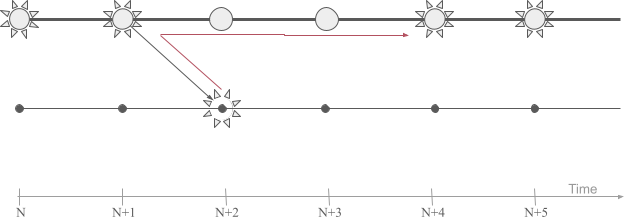
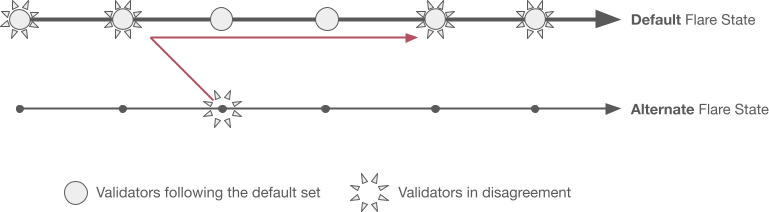
WIP

diff --git a/docs/tech/state-connector.md b/docs/tech/state-connector.md
@@ -5,7 +5,7 @@
 The **State Connector** is a smart contract running on the Flare network that allows anyone to **query information from outside the Flare network**.
 It does so in a **decentralized manner** (no single party is in control of the process) and **securely** (it takes a lot of effort to disrupt the process).
 
-This is accomplished by using a set of **independent Attestation Providers** which fetch the required information from the world and deliver it to the Flare network.
+This is accomplished by using a set of **independent attestation providers** which fetch the required information from the world and deliver it to the Flare network.
 The State Connector smart contract then checks if there is **enough consensus** among the received answers and **publishes the results** if so.
 
 <figure markdown>
@@ -34,7 +34,8 @@ Requests are **yes/no questions** regarding things that happened outside the Fla
 The answers, though, might contain any kind of additional data attached, like the content of transaction 0xABC, for example.
 
 Requests must adhere to one of the **available request types**, which have been designed to be **strictly decidable**, i.e., the answers are objective and cannot be argued.
-Otherwise, queries like "What is the weather like in Paris?" would have a hard time reaching consensus among the different Attestation Providers.
+Otherwise, queries like "What is the weather like in Paris?" would have a hard time reaching consensus among the different attestation providers.
+Section [Adding New Attestation Types](#adding-new-attestation-types) below contains more details.
 
 ??? example "Making a request (for App developers)"
 
@@ -51,24 +52,24 @@ Otherwise, queries like "What is the weather like in Paris?" would have a hard t
 
 ### 2. Request forwarding
 
-The State Connector simply **forwards the request** to all connected Attestation Providers through an [EVM](glossary.md#evm) event.
+The State Connector simply **forwards the request** to all connected attestation providers through an [EVM](glossary.md#evm) event.
 Therefore, the request is **not** stored on the blockchain and **its gas cost is very low** for the requester.
 
 ### 3. Data retrieval
 
-Attestation Providers **fetch the requested data** by means that depend on the type of attestation.
+Attestation providers **fetch the requested data** by means that depend on the type of attestation.
 E.g., retrieving data from another blockchain or public API.
 
-Keep in mind that Attestation Providers are **not controlled by Flare** in any way.
+Keep in mind that attestation providers are **not controlled by Flare** in any way.
 Anybody can listen to the request events and provide answers using any combination of hardware, software and code they see fit.
 
 ### 4. Attestation
 
-To prevent Attestation Providers from peeking at each other's answers, these are submitted in a "Commit and Reveal" fashion called [the RCR protocol](#overlapped-rcr-protocol) and detailed below.
+To prevent attestation providers from peeking at each other's answers, these are submitted in a "Commit and Reveal" fashion called [the RCR protocol](#overlapped-rcr-protocol) and detailed below.
 
-??? example "Submitting an attestation (For Attestation Provider developers)"
+??? example "Submitting an attestation (For attestation provider developers)"
 
-    Attestation Providers use the `submitAttestation` method (#3) of the [StateConnector contract](https://gitlab.com/flarenetwork/flare-smart-contracts/-/blob/master/contracts/genesis/implementation/StateConnector.sol#L92){ target=_blank }:
+    Attestation providers use the `submitAttestation` method (#3) of the [StateConnector contract](https://gitlab.com/flarenetwork/flare-smart-contracts/-/blob/master/contracts/genesis/implementation/StateConnector.sol#L92){ target=_blank }:
 
     ```solidity
     function submitAttestation(
@@ -86,8 +87,8 @@ To prevent Attestation Providers from peeking at each other's answers, these are
 
 ### 5. Consensus
 
-If **at least 50%** of the Attestation Providers submitted the same answer, it is made public.
-Otherwise, no consensus is achieved: requests remain unanswered and must be issued again.
+If **at least 50%** of the attestation providers submitted the same answer, it is made public.
+Otherwise, **no consensus is achieved**: requests remain **unanswered** and must be issued again.
 
 **The answers are stored in the State Connector smart contract for a week**, where anybody can read them.
 
@@ -116,14 +117,14 @@ Each attestation round has 3 **90-second** consecutive phases, called Request, C
   <figcaption>The Request-Commit-Reveal (RCR) protocol.</figcaption>
 </figure>
 
-- **Request phase**: Users send their requests to the State Connector contract which forwards them to every Attestation Provider.
-- **Commit phase**: Attestation Providers send **obfuscated** answers to the State Connector, so they cannot cheat by peeking at each other's submissions.
-- **Reveal phase**: Attestation Providers send the **deobfuscation key** so their previous answers are revealed.
+- **Request phase**: Users send their requests to the State Connector contract which forwards them to every attestation provider.
+- **Commit phase**: Attestation providers send **obfuscated** answers to the State Connector, so they cannot cheat by peeking at each other's submissions.
+- **Reveal phase**: Attestation providers send the **deobfuscation key** so their previous answers are revealed.
   When all data is available, answers are made public if there is enough consensus.
 
 The RCR protocol is akin to making submissions in a closed envelope which is not opened until all submissions are received.
 
-Results are available at the end of the Reveal phase, so the answer to a particular request can take anywhere from 3 to 4.5 minutes, depending on the time in which the request was made inside the Collect phase.
+Results are available at the end of the Reveal phase, so the answer to a particular request can take anywhere **from 3 to 4.5 minutes**, depending on the time in which the request was made inside the Collect phase.
 
 Furthermore, the phases of the RCR protocol are actually **overlapped**, so when requests are being **collected** for round $n$, answers are being simultaneously **committed** for the previous round $(n-1)$, and **revealed** for the round prior to that $(n-2)$.
 
@@ -136,7 +137,7 @@ This means that new requests can be made without waiting for the previous ones t
 
 ### Attestation Packing
 
-Each round, Attestation Providers build a [Merkle tree](https://en.wikipedia.org/wiki/Merkle_tree){ target=_blank } with the hashes of **all valid answers** for the round.
+Each round, attestation providers build a [Merkle tree](https://en.wikipedia.org/wiki/Merkle_tree){ target=_blank } with the hashes of **all valid answers** for the round.
 The obtained **Merkle root** is then called the **Attestation Proof**, since it is proof of the presence of each individual answer.
 Finally, the attestation proof is submitted to the State Connector for consensus evaluation.
 
@@ -146,7 +147,7 @@ Finally, the attestation proof is submitted to the State Connector for consensus
 </figure>
 
 This allows **any number of requests to be answered with a single hash**, greatly improving **scalability**.
-Furthermore, the gas cost for Attestation Providers is **constant** each round, no matter how many requests they are answering.
+Furthermore, the gas cost for attestation providers is **constant** each round, no matter how many requests they are answering.
 
 A request is only **valid** (and therefore added to the proof) if it is well-formed and it **matches reality**.
 Different providers might have different views on what reality is, and this is why the State Connector runs a consensus algorithm on the received answers.
@@ -154,7 +155,7 @@ Different providers might have different views on what reality is, and this is w
 Additionally, the allowed request types are **carefully designed to minimize the probability of contention**.
 For example, requiring some time for **transactions to settle** before inquiring about them, and forcing requests to include the hash of the block containing the transaction, which proves that the transaction has already been mined.
 
-Attestation Providers keep the actual retrieved data for a week, in case it contains additional information beyond the yes/no result.
+Attestation providers keep the actual retrieved data for a week, in case it contains additional information beyond the yes/no result.
 Users can request this data directly from the providers through the [Proof API](https://github.com/flare-foundation/attestation-client/blob/main/docs/verfication/proof-api.md){ target=_blank }.
 
 !!! note
@@ -164,9 +165,9 @@ Users can request this data directly from the providers through the [Proof API](
 
 Additional points worth noting:
 
-- If two Attestation Providers observe a different validity for _any_ of the requests in the round, they will submit a completely different Attestation Proof.
+- If two attestation providers observe a different validity for _any_ of the requests in the round, they will submit a completely different Attestation Proof.
 
-- Attestation Providers **must answer all queries** in the round **or abstain from participating in the round**, otherwise, their Merkle tree root will not match other providers and will probably be discarded by consensus.
+- Attestation providers **must answer all queries** in the round **or abstain from participating in the round**, otherwise, their Merkle tree root will not match other providers and will probably be discarded by consensus.
 
 - **Hashes are sorted** before being added to the tree, just to have a **consistent ordering** (albeit arbitrary).
 
@@ -176,7 +177,7 @@ Additional points worth noting:
 
     The procedure for apps to check whether the State Connector answered yes or no to their request is detailed in the [Attestation Client repository](https://github.com/flare-foundation/attestation-client/blob/main/docs/verfication/verification-workflow.md){ target=_blank }. What follows is an illustrative summary.
 
-    The basic idea is that you must **retrieve all data** (both requests and answers) for the round from an Attestation Provider.
+    The basic idea is that you must **retrieve all data** (both requests and answers) for the round from an attestation provider.
     You then **rebuild the Merkle tree** with this data and check that it matches the Attestation Proof provided by the State Connector.
 
     <figure markdown>
@@ -187,7 +188,7 @@ Additional points worth noting:
     1. In the attestation round after you made the request (3 attestation phases, so from 3 to 4.5 minutes) the **Attestation Proof** for the round should be available in the State Connector.
         Retrieve it using method `getAttestation` (#7) of the [StateConnector contract](https://songbird-explorer.flare.network/address/0x3A1b3220527aBA427d1e13e4b4c48c31460B4d91/read-contract){ target=_blank }.
 
-    2. **Select any Attestation Provider** you want and use the [Proof API](https://github.com/flare-foundation/attestation-client/blob/main/docs/verfication/proof-api.md){ target=_blank } path `api/proof/votes-for-round/{roundId}` to **retrieve all data for the round**.
+    2. **Select any attestation provider** you want and use the [Proof API](https://github.com/flare-foundation/attestation-client/blob/main/docs/verfication/proof-api.md){ target=_blank } path `api/proof/votes-for-round/{roundId}` to **retrieve all data for the round**.
 
     3. **Rebuild the Merkle tree** for the retrieved data.
     There are tools to help you, like the [MerkleTree.ts](https://github.com/flare-foundation/attestation-client/blob/main/lib/utils/MerkleTree.ts){ target=_blank } library.
@@ -201,3 +202,123 @@ Additional points worth noting:
     If it is not present, your request was deemed **invalid** (e.g. the queried transaction was not present).
 
         Otherwise, your request is valid and you can find any extra information about it in the data array.
+
+## Branching Protocol
+
+Besides the consensus algorithm that runs on all received attestations, the State Connector provides **one further security mechanism**:
+the ability of any individual validator node to **fork and halt execution** if attestation providers specially trusted by it disagree with the majority.
+
+### Attestation Provider Sets
+
+To achieve this, two **sets** of attestation providers are defined:
+
+- **Default attestation providers set**
+
+    Anybody can submit attestations to the State Connector, but the contract will only accept submissions from attestation providers in the **default set**.
+
+    This list was managed by Flare at launch and later became completely decentralized (see the section [Becoming an Attestation Provider](#becoming-an-attestation-provider) for more information).
+
+    **Every validator node** in the Flare network relies on this set.
+
+- **Local attestation providers set**
+
+    Additionally, each node operator can provide a list of **local** attestation providers to be accepted besides the ones from the default set.
+
+    Local providers are physically the same as default providers, and they are treated exactly the same by the State Connector.
+    Furthermore, providers can belong to both sets.
+
+<figure markdown>
+  ![Default and Local attestation providers](SC-local-AP-1.png){ loading=lazy .allow-zoom width=500px }
+  <figcaption>Default and Local attestation providers.</figcaption>
+</figure>
+
+!!! important ""
+
+    Then, for an attestation round to succeed these three conditions must be met:
+
+    - **The default set must agree on a result** (50% consensus inside the set).
+
+    - **The local set must agree on a result too** (50% consensus inside the set).
+
+    - **Both results must match**.
+
+    Otherwise, the round is **undecided** and no answer is made public.
+
+This gives local attestation providers the capacity to **stop results from being approved** if they don't agree with their own observations.
+Ideally, local providers are managed by the same entity controlling the validator node using them, so they can be **trusted implicitly**.
+
+As a consequence of different validators using different attestation providers, sometimes State Connector queries can get different results on some validators, which naturally leads to **chain forks**.
+
+Typically, blockchains allow every branch in a fork to **coexist and grow independently**, until the discrepancy is detected and resolved.
+At that point, one of the branches is removed and all the validators that were following it experience a **rollback**:
+All transactions that happened after the fork are **reverted** and the state of those validators is synchronized with the rest of the network.
+
+When dealing with forks caused by the State Connector, the Flare network implements an **extra security measure**:
+Validators whose local attestation providers disagree with the default set **halt execution after the fork**, ensuring that they will not suffer any rollback once the fork is resolved.
+
+In other words, these validators remain in a **safe state** in which the disputed query is **undecided** and therefore no action is taken based on it.
+
+!!! example
+
+    <figure markdown>
+      ![State Connector forks](SC-local-AP-2.png){ loading=lazy .allow-zoom }
+      <figcaption>State Connector forks.</figcaption>
+    </figure>
+
+    In the **example picture**, all validator nodes use the attestation providers from the default set (not shown), but validators on the rightmost column, **additionally, employ local providers**.
+    One of them returns a different answer for one of the queries, which leads to a **fork of the chain** since that validator's state does not match the rest of the network (the divergent ledger, depicted in red).
+
+The next section shows how forks are resolved and halted nodes restarted.
+
+### Branch Resolution
+
+<figure markdown>
+  ![Branching](SC-branching.png){ loading=lazy .allow-zoom }
+  <figcaption>The two states of the branching protocol.</figcaption>
+</figure>
+
+The picture above shows the state of the network after a fork.
+The **default network state** is the one followed by validators which only use the **default set of attestation providers**.
+The **alternate network state** is where validators go if they use **local attestation providers**, and they disagree with the default set.
+
+In the alternate state **no queries are answered** and **no blocks are produced**, so it is a **safe state** for validators to wait for forks to be resolved.
+
+This resolution must come from **operators** when they are alerted that a validator node has stopped.
+To understand how to do this, note that attestations are designed to be **objectively decidable**, meaning that in the event of a fork **one branch matches reality and the other does not**.
+
+There are therefore only two ways to resolve a fork:
+
+1. **When local providers are wrong**:
+
+    The operator of the separated validator needs to find out why the local attestation providers failed and either fix them or remove them from the local set of the validator.
+
+    Once this is fixed, the node simply rewinds its state to where it split and quickly fast-forward to rejoin the default state.
+
+    <figure markdown>
+      ![Fork resolution when local providers are wrong](SC-branching-resolution-1.png){ loading=lazy .allow-zoom }
+      <figcaption>Fork resolution when local providers are wrong.</figcaption>
+    </figure>
+
+    Note that **no transactions need to be rolled back**, on either branch.
+
+    In the event of this kind of fork, dapps depending on information from a separated validator just have to wait longer to get their result.
+
+2. **When the default set is wrong**:
+
+    First off, this is a very **delicate situation** and it should be **rare**.
+
+    The default set uses consensus among attestation providers which have been chosen due to their merits as [FTSO](glossary.md#ftso) data providers.
+    The fact that more than 50% of them are reporting data inconsistent with reality can be considered **a 51% attack**.
+
+    The operator of the separated validator, upon convincing themselves that their branch is the correct one (it matches reality) they need to bring the fork to the attention of the misbehaving attestation providers' operators.
+
+    All validators in the default state then need to **roll back to the last correct state** (reverting transactions) and continue from there on the forked branch, which becomes the new default state.
+
+    <figure markdown>
+      ![Fork resolution when the default set is wrong](SC-branching-resolution-2.png){ loading=lazy .allow-zoom }
+      <figcaption>Fork resolution when the default set is wrong.</figcaption>
+    </figure>
+
+    Note that stopped nodes can resume now, and they **never had to roll back any transaction**.
+
+In summary, validators using at least one reliable local attestation provider do not have to worry about rollbacks, **even in the face of 51% attacks**.
